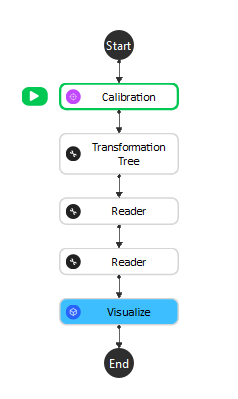
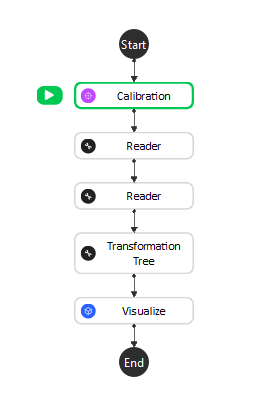
updated exercise, images

Changed region(s): [[0.0882, 0.0602, 0.7647, 0.9624]]

diff --git a/docs/nodes/3D Processing/visualization.rst b/docs/nodes/3D Processing/visualization.rst
@@ -63,7 +63,7 @@ Procedure to Use
 ---------------------------
 We will need a few more nodes to demonstrate the Visualize node. You can get the files `here <https://daoairoboticsinc-my.sharepoint.com/:u:/g/personal/xchen_daoai_com/ERwFyz-g2Z9MiW4YPMu6sYwBiDs4NRFnD4YpgVupZkVAHA?e=t7mphp>`_ .
 
-1. Insert a Calibration, Transformation Tree, 2 Readers, and Visualize node.
+1. Insert a Calibration, 2 Readers, Transformation Tree, and Visualize node.
     .. image:: Images/visualize/visualize_procedure_1.png
        :scale: 60%
 
@@ -73,7 +73,15 @@ We will need a few more nodes to demonstrate the Visualize node. You can get the
     .. image:: Images/visualize/visualize_procedure_2_2.png
        :scale: 60%
 
-3. In the Transformation Tree, we need the tool in cloud relation to visualize the gripper. Add a tool in base relation, and link the bag's output pose; Add a cam in base relation, and link calibration's camInBase output; Add a cam in cloud relation, click "Set Pose", change Rot a to 180. Finally, add a tool in cloud output. Remember to click "Apply".
+3. In the first Reader node, read the gripper's mesh file.
+    .. image:: Images/visualize/visualize_procedure_4.png
+       :scale: 90%
+
+4. In the second Reader node, read the bag file.
+    .. image:: Images/visualize/visualize_procedure_5.png
+       :scale: 90%
+
+5. In the Transformation Tree, we need the tool in cloud relation to visualize the gripper. Add a tool in base relation, and link the bag's output pose; Add a cam in base relation, and link calibration's camInBase output; Add a cam in cloud relation, click "Set Pose", change Rot a to 180. Finally, add a tool in cloud output. Remember to click "Apply".
     .. image:: Images/visualize/visualize_procedure_3_1.png
        :scale: 60%
     .. image:: Images/visualize/visualize_procedure_3_2.png
@@ -82,14 +90,6 @@ We will need a few more nodes to demonstrate the Visualize node. You can get the
        :scale: 90%
     .. image:: Images/visualize/visualize_procedure_3_4.png
        :scale: 80%
-
-4. In the first Reader node, read the gripper's mesh file.
-    .. image:: Images/visualize/visualize_procedure_4.png
-       :scale: 90%
-
-5. In the second Reader node, read the bag file.
-    .. image:: Images/visualize/visualize_procedure_5.png
-       :scale: 90%
 
 6. In the Visualize node, click "Add Viz" to add a visualization (Viz_0). For Object, link the first reader's outputMesh (gripper). For Object Pose, link the Transformation Tree's output.
     .. image:: Images/visualize/visualize_procedure_6.png
@@ -106,13 +106,13 @@ We will need a few more nodes to demonstrate the Visualize node. You can get the
 
 Exercise
 ---------------------------
-You have this flowchart and are trying to see the visualization of the scene with the gripper. However, when you click on the Visualize node, the display is a black screen. How can you fix the problem, given the following visualizations settings and that the Object and Object Pose links are correct?
+You have this flowchart and are trying to see the visualization of the scene with the gripper. However, when you click on the Visualize node, the display appears to be a black screen. How can you fix the problem, given the following visualizations settings and that the Object and Object Pose links are correct?
 
 .. image:: Images/visualize/visualize_exercise_1.png
-   :scale: 80%
+   :scale: 100%
 
 .. image:: Images/visualize/visualize_exercise_2.png
-   :scale: 67%
+   :scale: 68%
 
 |
 |
@@ -132,7 +132,7 @@ You have this flowchart and are trying to see the visualization of the scene wit
 
 Answers for Exercise
 ---------------------------
-| Since "Show Axis" is checked, the screen should show two axes. However, the axis scale is 0, so nothing is shown on screen. Let's change it to 50.
+| Since "Show Axis" is checked, the screen should show two axes. However, the axis scale is 1, so they are too small to be seen. Let's change it to 50.
 | "Show Object" also need to be selected in order to display the objects or scene.
 | With the following settings in visualize, the display shows both the axes and the objects.
 
